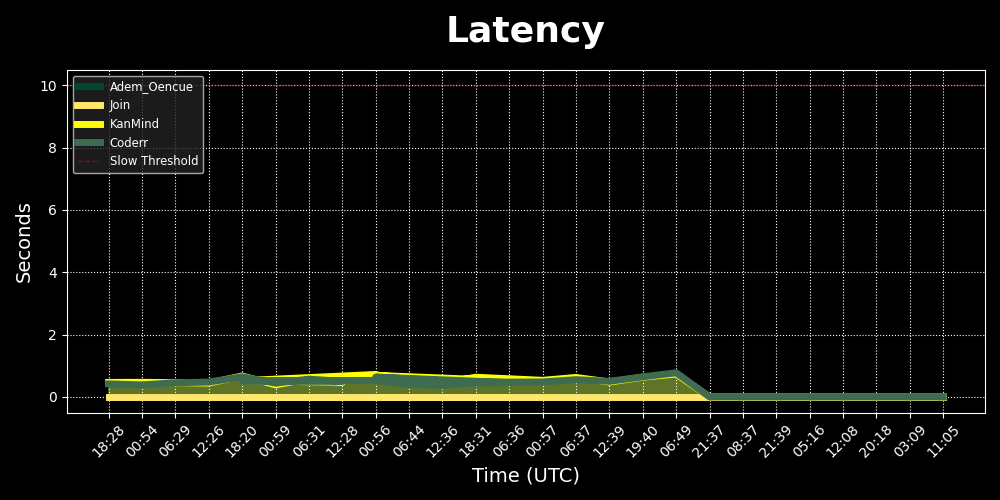
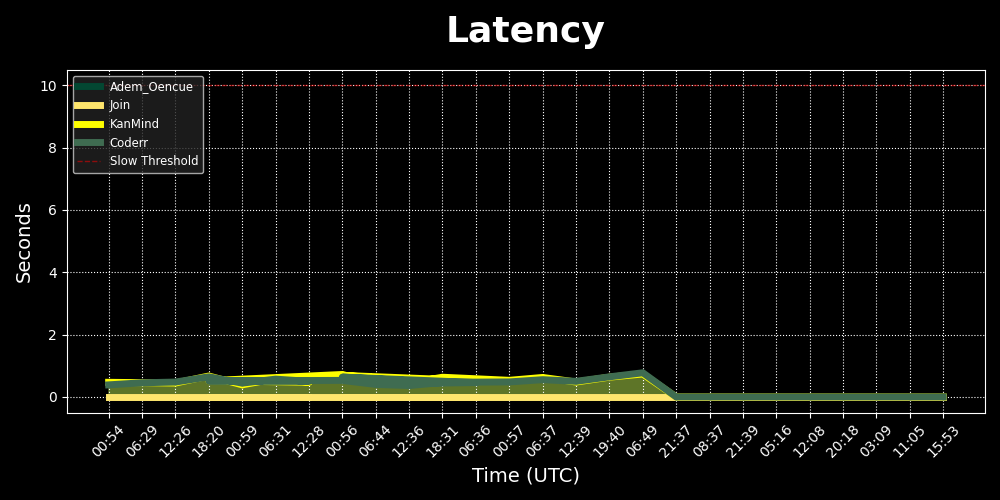
docs: update uptime stats & history

Changed region(s): [[0.093, 0.84, 0.961, 0.93], [0.124, 0.72, 0.713, 0.81]]

diff --git a/README.md b/README.md
@@ -10,8 +10,8 @@ This repository automatically checks the status of my websites at regular interv
 | :--- | :---: | :---: | :--- | :---: |
 | **Adem_Oencue** | ![Status](https://img.shields.io/badge/Status-OFFLINE-critical?style=flat-square) | `0.00s` | Status: 404 | ![Uptime](https://img.shields.io/static/v1?label=Uptime&message=0.0%25&color=red&style=flat-square) |
 | **Join** | ![Status](https://img.shields.io/badge/Status-OFFLINE-critical?style=flat-square) | `0.00s` | Status: 404 | ![Uptime](https://img.shields.io/static/v1?label=Uptime&message=0.0%25&color=red&style=flat-square) |
-| **KanMind** | ![Status](https://img.shields.io/badge/Status-OFFLINE-critical?style=flat-square) | `0.00s` | Timeout | ![Uptime](https://img.shields.io/static/v1?label=Uptime&message=73.3%25&color=red&style=flat-square) |
-| **Coderr** | ![Status](https://img.shields.io/badge/Status-OFFLINE-critical?style=flat-square) | `0.00s` | Timeout | ![Uptime](https://img.shields.io/static/v1?label=Uptime&message=73.3%25&color=red&style=flat-square) |
+| **KanMind** | ![Status](https://img.shields.io/badge/Status-OFFLINE-critical?style=flat-square) | `0.00s` | Timeout | ![Uptime](https://img.shields.io/static/v1?label=Uptime&message=70.0%25&color=red&style=flat-square) |
+| **Coderr** | ![Status](https://img.shields.io/badge/Status-OFFLINE-critical?style=flat-square) | `0.00s` | Timeout | ![Uptime](https://img.shields.io/static/v1?label=Uptime&message=70.0%25&color=red&style=flat-square) |
 
-_Last updated: 30.08.2026 11:05 UTC_
+_Last updated: 30.08.2026 15:53 UTC_
 <!-- END_STATUS -->
